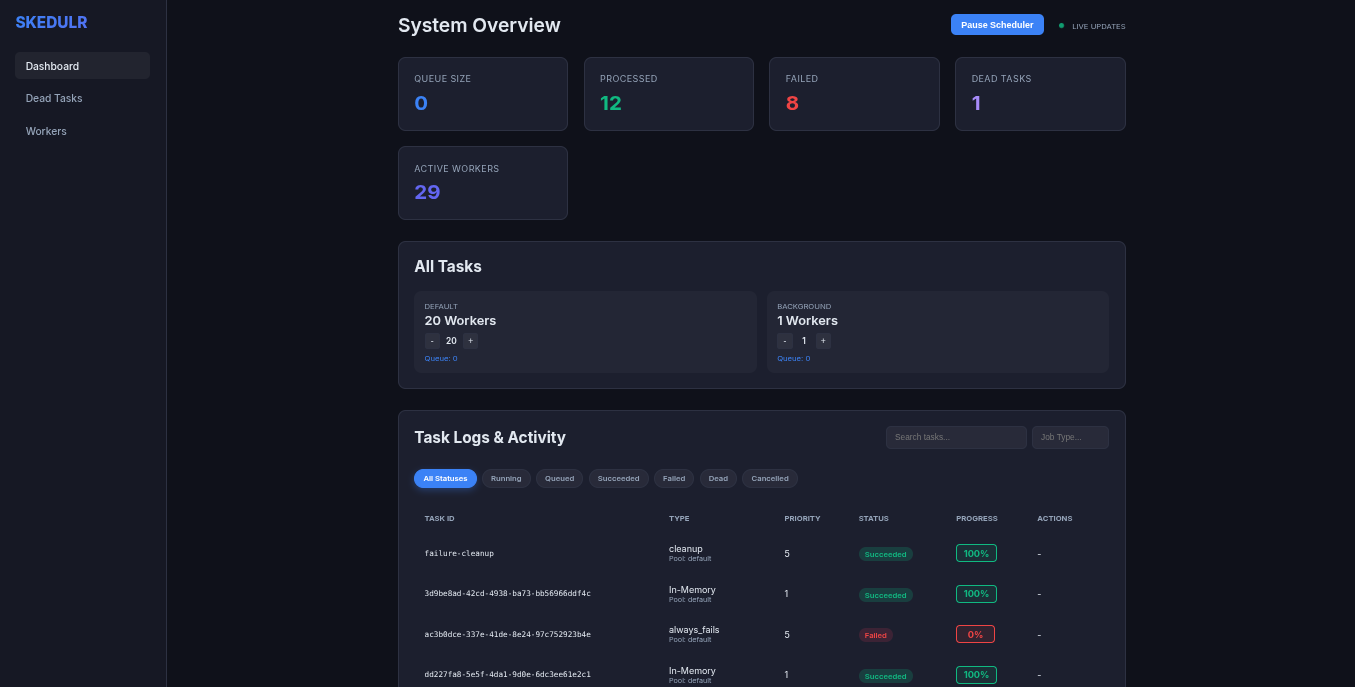
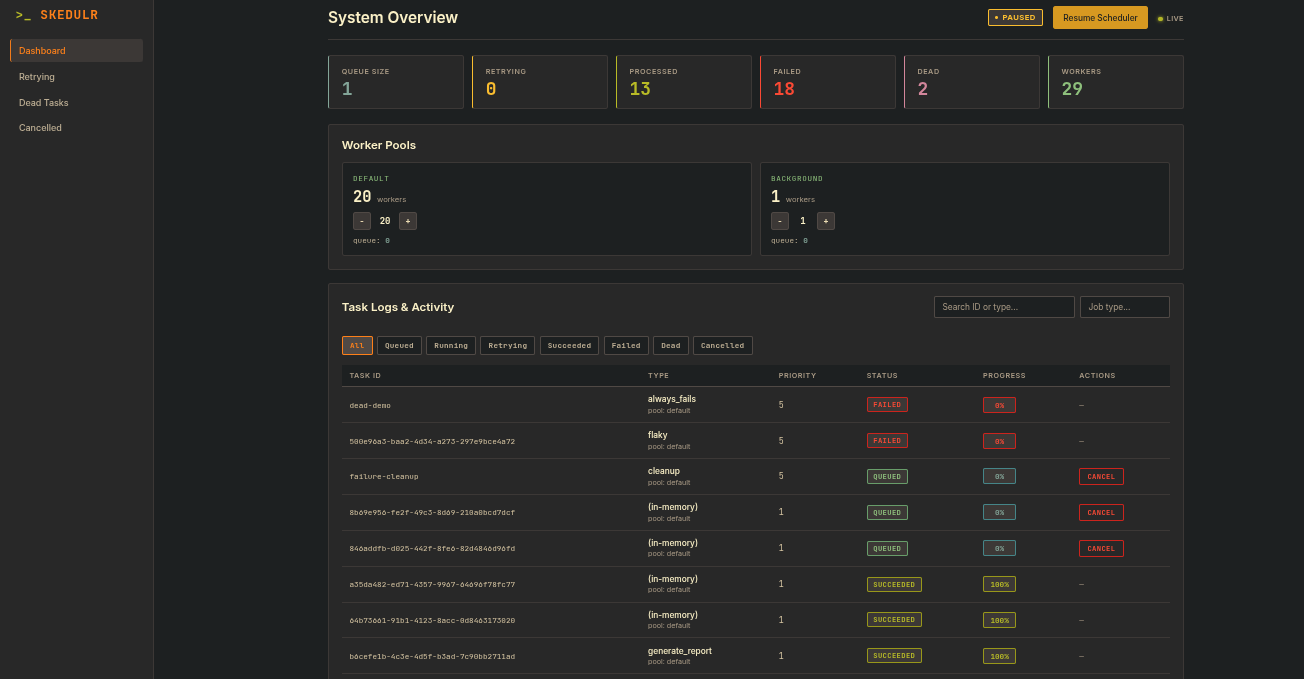
docs(example): fix stale comment implying in-memory fallback; example always requires Redis

diff --git a/example/example.go b/example/example.go
@@ -34,8 +34,9 @@ import (
 
 func main() {
 	// ─── 1. Create the scheduler ──────────────────────────────────────────
-	// REDIS_ADDR is optional — without it we still get an in-memory scheduler
-	// (no crash-restart durability, but every other feature works).
+	// Redis is required. Override the address with REDIS_ADDR if your instance
+	// is not on the default localhost:6379 (the run_example.sh script spins one
+	// up via Docker automatically).
 	redisAddr := os.Getenv("REDIS_ADDR")
 	if redisAddr == "" {
 		redisAddr = "localhost:6379"
